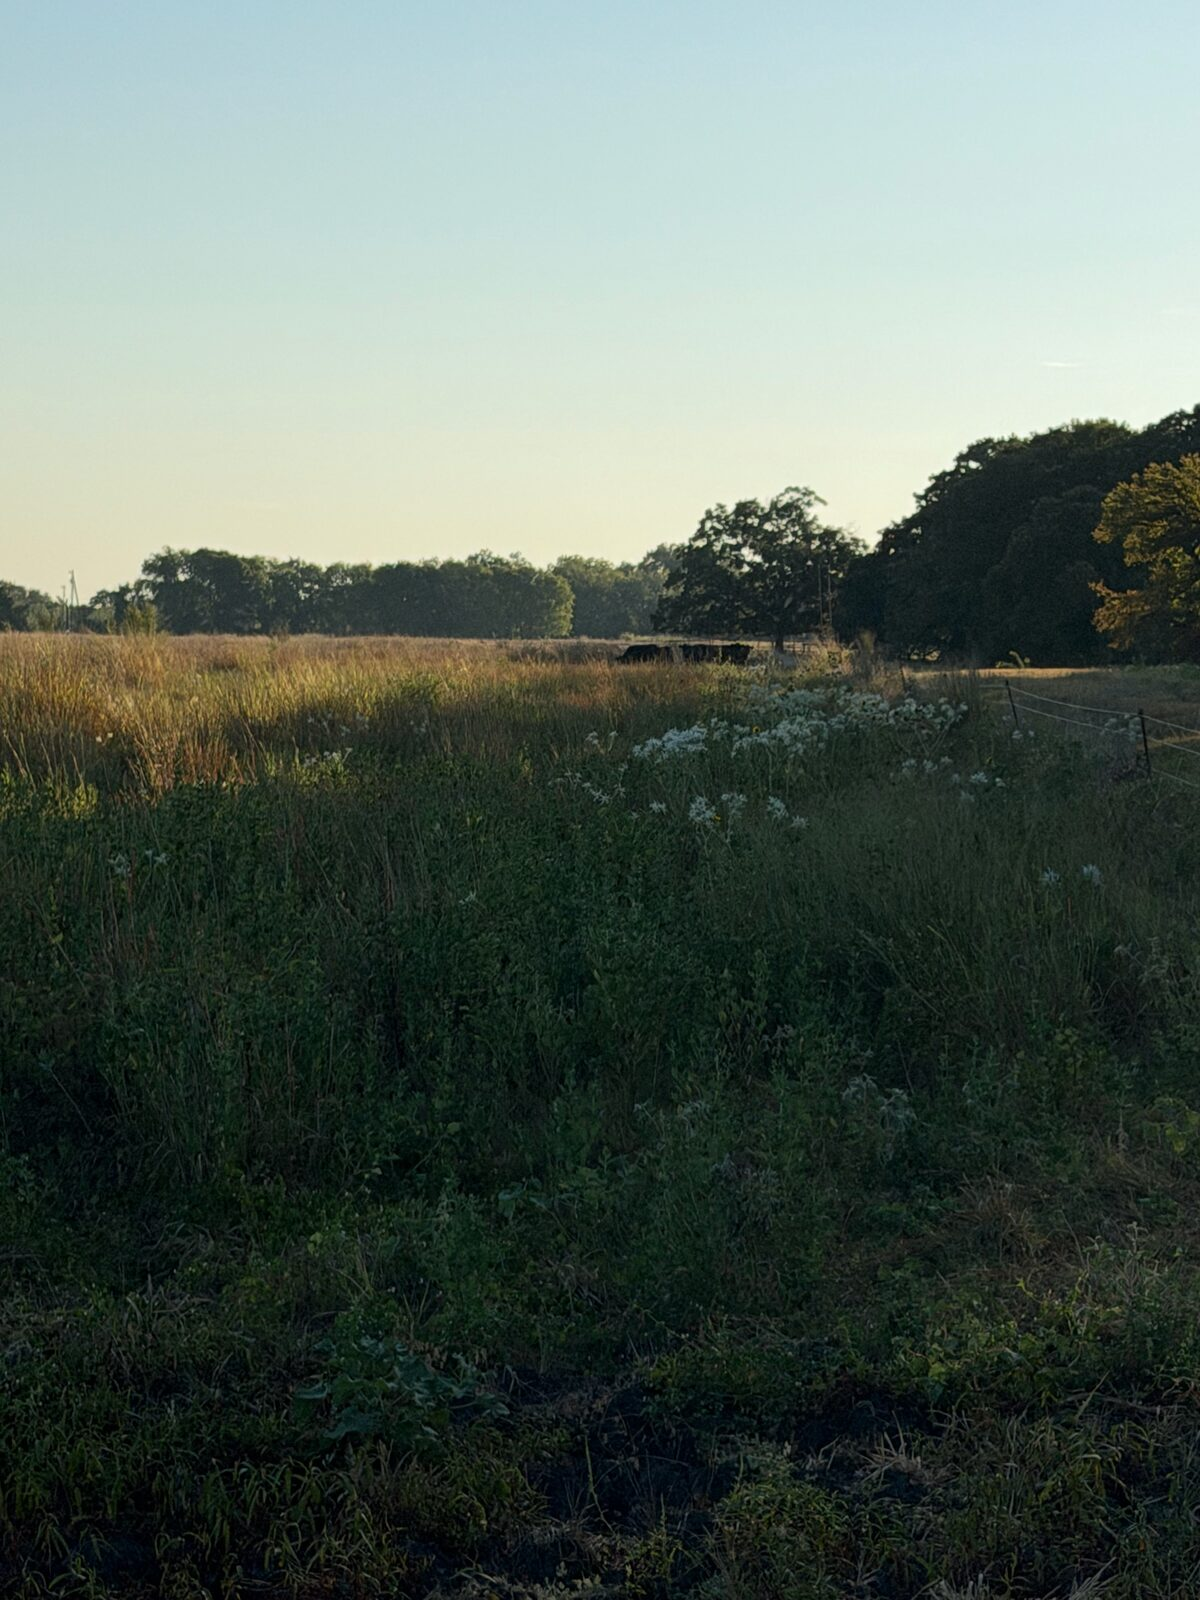
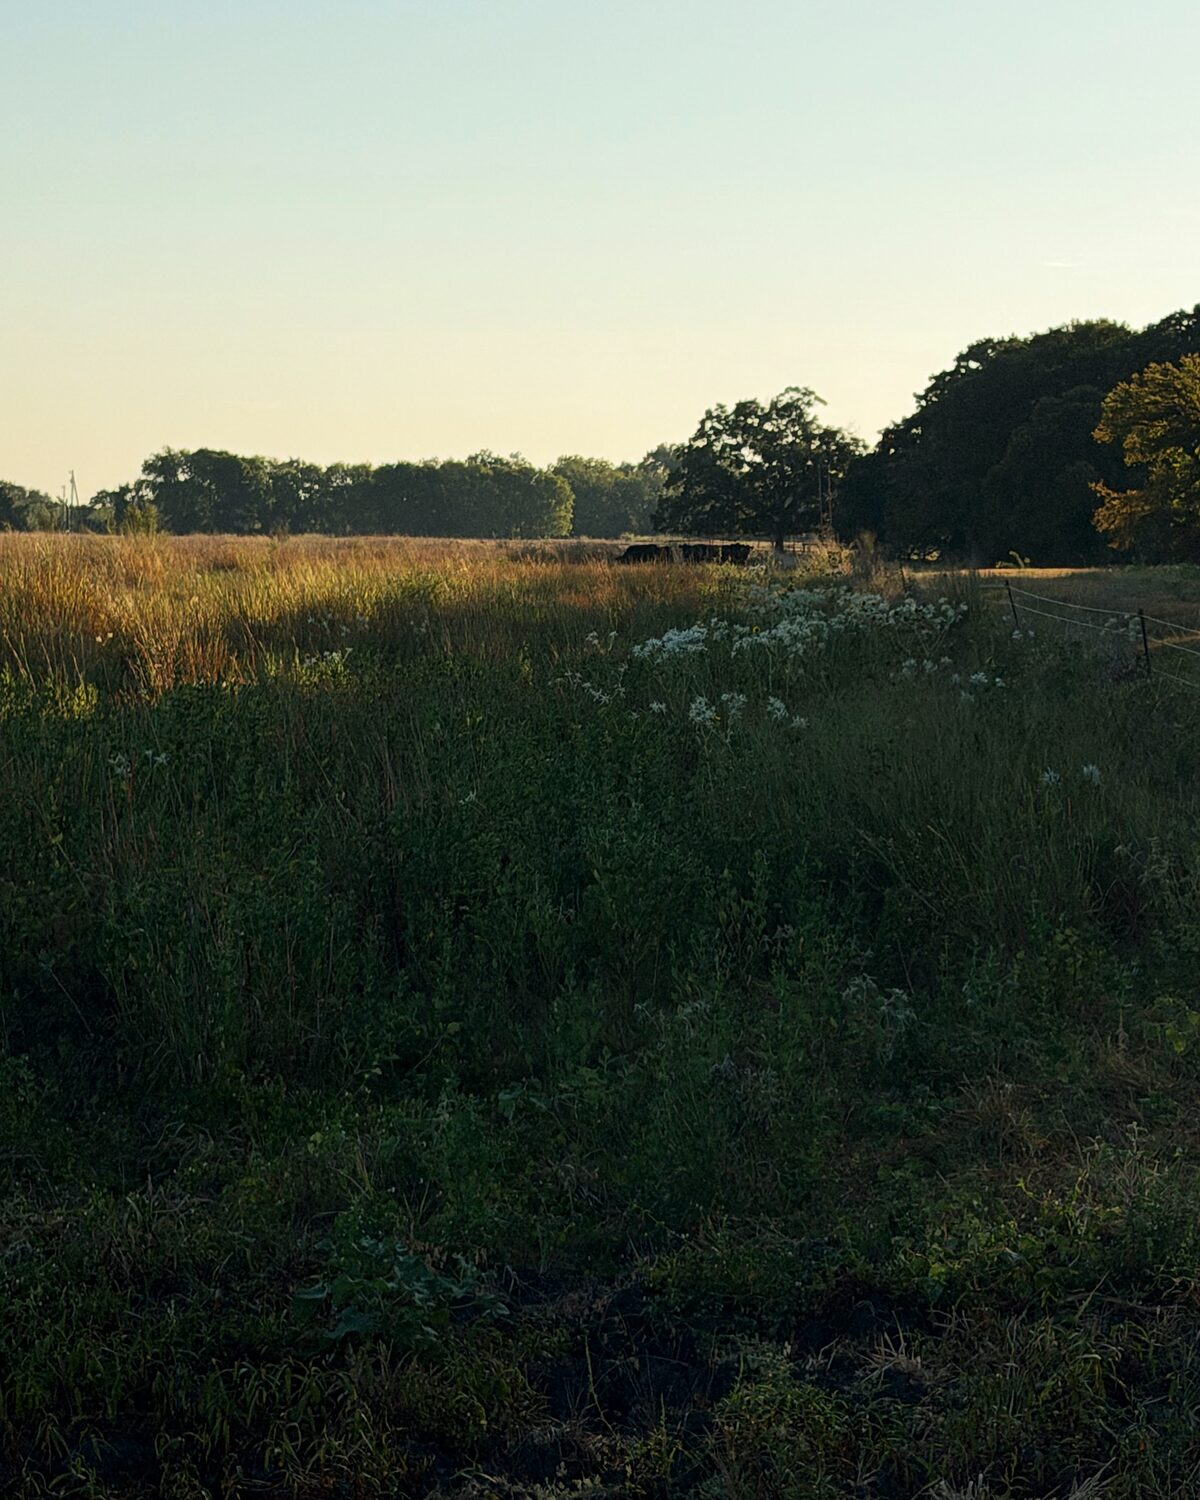
Rosewood photos: editorial crops + consistent warm grade, tighter pavilion crop

diff --git a/news/visit-rosewood-ranches-ennis-texas/index.html b/news/visit-rosewood-ranches-ennis-texas/index.html
@@ -55,7 +55,7 @@
         <div class="container">
             <article class="news-card news-card-full" data-id="visit-rosewood-ranches-ennis-texas">
                 <div class="news-body">
-                    <p>Acre &amp; Plate visited Rosewood Ranches in Ennis, Texas, an American Wagyu operation along the Trinity River. We saw black cattle out on wide, open grassland.</p><figure class="news-image"><img src="/assets/news/rosewood/rosewood-1.jpg" alt="Black cattle grazing on open green pasture under a wide blue sky with scattered clouds" loading="lazy" width="1600" height="1200"><figcaption>Cattle on pasture at Rosewood Ranches</figcaption></figure><p>According to <a href="https://www.rosewoodbeef.com/the-ranch/" rel="noopener">Rosewood</a>, the ranch covers more than 10,000 acres along the Trinity River, and its stewardship goes back to the Sands family in 1857. The ranch says it <a href="https://www.rosewoodbeef.com/" rel="noopener">crosses Wagyu genetics with Black Angus lineage</a>, with cattle raised and finished on pasture.</p><figure class="news-image"><img src="/assets/news/rosewood/rosewood-2.jpg" alt="Late-day sun glowing low over a green pasture with a treeline on the horizon" loading="lazy" width="1200" height="1600"><figcaption>Late sun over the pasture and treeline</figcaption></figure><figure class="news-image"><img src="/assets/news/rosewood/rosewood-3.jpg" alt="Tall grass and wildflowers in the foreground with cattle visible in the distance at dusk" loading="lazy" width="1200" height="1600"><figcaption>Tall grass and wildflowers, cattle in the distance at dusk</figcaption></figure><p>The ranch is owned by a subsidiary of the Dallas-based Rosewood Corporation, which is owned by the Caroline Hunt Trust Estate, according to the <a href="https://www.rosewoodcattle.com/history.htm" rel="noopener">company history</a>.</p><figure class="news-image"><img src="/assets/news/rosewood/rosewood-4.jpg" alt="Ranch pickup trucks and utility vehicles parked under a large covered pavilion" loading="lazy" width="1600" height="1200"><figcaption>Ranch trucks and UTVs under the pavilion</figcaption></figure><figure class="news-image"><img src="/assets/news/rosewood/rosewood-5.jpg" alt="Two men in conversation outdoors at the ranch, one wearing a cowboy hat" loading="lazy" width="1600" height="1200"><figcaption>Talking cattle at the ranch</figcaption></figure><p><strong>Why it isn&rsquo;t in the directory:</strong> Rosewood sells its beef to chefs and through distributors such as <a href="https://www.allenbrothers.com/collections/rosewood-ranches-wagyu" rel="noopener">Allen Brothers</a>, which describes it as pasture-raised with no added hormones. The ranch doesn&rsquo;t offer direct-to-consumer checkout for fresh beef, so it doesn&rsquo;t meet our ranch-direct rule and isn&rsquo;t listed.</p><figure class="news-image"><img src="/assets/news/rosewood/rosewood-6.jpg" alt="Sunset over a pasture with an antique tractor standing in the grass" loading="lazy" width="1600" height="1200"><figcaption>Sunset over the pasture, with an antique tractor</figcaption></figure><p>If you want Texas beef you can buy straight from the ranch, browse the <a href="/texas/">Texas ranches in the directory</a>.</p><p><em>Photos: Andy Halvorsen / Acre &amp; Plate</em></p>
+                    <p>Acre &amp; Plate visited Rosewood Ranches in Ennis, Texas, an American Wagyu operation along the Trinity River. We saw black cattle out on wide, open grassland.</p><figure class="news-image"><img src="/assets/news/rosewood/rosewood-1.jpg" alt="Black cattle grazing on open green pasture under a wide blue sky with scattered clouds" loading="lazy" width="1600" height="1067"><figcaption>Cattle on pasture at Rosewood Ranches</figcaption></figure><p>According to <a href="https://www.rosewoodbeef.com/the-ranch/" rel="noopener">Rosewood</a>, the ranch covers more than 10,000 acres along the Trinity River, and its stewardship goes back to the Sands family in 1857. The ranch says it <a href="https://www.rosewoodbeef.com/" rel="noopener">crosses Wagyu genetics with Black Angus lineage</a>, with cattle raised and finished on pasture.</p><figure class="news-image"><img src="/assets/news/rosewood/rosewood-2.jpg" alt="Late-day sun glowing low over a green pasture with a treeline on the horizon" loading="lazy" width="1200" height="1500"><figcaption>Late sun over the pasture and treeline</figcaption></figure><figure class="news-image"><img src="/assets/news/rosewood/rosewood-3.jpg" alt="Tall grass and wildflowers in the foreground with cattle visible in the distance at dusk" loading="lazy" width="1200" height="1500"><figcaption>Tall grass and wildflowers, cattle in the distance at dusk</figcaption></figure><p>The ranch is owned by a subsidiary of the Dallas-based Rosewood Corporation, which is owned by the Caroline Hunt Trust Estate, according to the <a href="https://www.rosewoodcattle.com/history.htm" rel="noopener">company history</a>.</p><figure class="news-image"><img src="/assets/news/rosewood/rosewood-4.jpg" alt="Ranch pickup trucks and utility vehicles parked under a large covered pavilion" loading="lazy" width="1120" height="530"><figcaption>Ranch trucks and UTVs under the pavilion</figcaption></figure><figure class="news-image"><img src="/assets/news/rosewood/rosewood-5.jpg" alt="Two men in conversation outdoors at the ranch, one wearing a cowboy hat" loading="lazy" width="1500" height="1000"><figcaption>Talking cattle at the ranch</figcaption></figure><p><strong>Why it isn&rsquo;t in the directory:</strong> Rosewood sells its beef to chefs and through distributors such as <a href="https://www.allenbrothers.com/collections/rosewood-ranches-wagyu" rel="noopener">Allen Brothers</a>, which describes it as pasture-raised with no added hormones. The ranch doesn&rsquo;t offer direct-to-consumer checkout for fresh beef, so it doesn&rsquo;t meet our ranch-direct rule and isn&rsquo;t listed.</p><figure class="news-image"><img src="/assets/news/rosewood/rosewood-6.jpg" alt="Sunset over a pasture with an antique tractor standing in the grass" loading="lazy" width="1600" height="1067"><figcaption>Sunset over the pasture, with an antique tractor</figcaption></figure><p>If you want Texas beef you can buy straight from the ranch, browse the <a href="/texas/">Texas ranches in the directory</a>.</p><p><em>Photos: Andy Halvorsen / Acre &amp; Plate</em></p>
                 </div>
                 
                 <div class="news-actions">

diff --git a/news/index.html b/news/index.html
@@ -51,7 +51,7 @@
             <h3><a href="/news/visit-rosewood-ranches-ennis-texas/">Visiting Rosewood Ranches, Texas Wagyu country on the Trinity River</a></h3>
         </div>
         <div class="news-body">
-            <p>Acre &amp; Plate visited Rosewood Ranches in Ennis, Texas, an American Wagyu operation along the Trinity River. We saw black cattle out on wide, open grassland.</p><figure class="news-image"><img src="/assets/news/rosewood/rosewood-1.jpg" alt="Black cattle grazing on open green pasture under a wide blue sky with scattered clouds" loading="lazy" width="1600" height="1200"><figcaption>Cattle on pasture at Rosewood Ranches</figcaption></figure><p>According to <a href="https://www.rosewoodbeef.com/the-ranch/" rel="noopener">Rosewood</a>, the ranch covers more than 10,000 acres along the Trinity River, and its stewardship goes back to the Sands family in 1857. The ranch says it <a href="https://www.rosewoodbeef.com/" rel="noopener">crosses Wagyu genetics with Black Angus lineage</a>, with cattle raised and finished on pasture.</p><figure class="news-image"><img src="/assets/news/rosewood/rosewood-2.jpg" alt="Late-day sun glowing low over a green pasture with a treeline on the horizon" loading="lazy" width="1200" height="1600"><figcaption>Late sun over the pasture and treeline</figcaption></figure><figure class="news-image"><img src="/assets/news/rosewood/rosewood-3.jpg" alt="Tall grass and wildflowers in the foreground with cattle visible in the distance at dusk" loading="lazy" width="1200" height="1600"><figcaption>Tall grass and wildflowers, cattle in the distance at dusk</figcaption></figure><p>The ranch is owned by a subsidiary of the Dallas-based Rosewood Corporation, which is owned by the Caroline Hunt Trust Estate, according to the <a href="https://www.rosewoodcattle.com/history.htm" rel="noopener">company history</a>.</p><figure class="news-image"><img src="/assets/news/rosewood/rosewood-4.jpg" alt="Ranch pickup trucks and utility vehicles parked under a large covered pavilion" loading="lazy" width="1600" height="1200"><figcaption>Ranch trucks and UTVs under the pavilion</figcaption></figure><figure class="news-image"><img src="/assets/news/rosewood/rosewood-5.jpg" alt="Two men in conversation outdoors at the ranch, one wearing a cowboy hat" loading="lazy" width="1600" height="1200"><figcaption>Talking cattle at the ranch</figcaption></figure><p><strong>Why it isn&rsquo;t in the directory:</strong> Rosewood sells its beef to chefs and through distributors such as <a href="https://www.allenbrothers.com/collections/rosewood-ranches-wagyu" rel="noopener">Allen Brothers</a>, which describes it as pasture-raised with no added hormones. The ranch doesn&rsquo;t offer direct-to-consumer checkout for fresh beef, so it doesn&rsquo;t meet our ranch-direct rule and isn&rsquo;t listed.</p><figure class="news-image"><img src="/assets/news/rosewood/rosewood-6.jpg" alt="Sunset over a pasture with an antique tractor standing in the grass" loading="lazy" width="1600" height="1200"><figcaption>Sunset over the pasture, with an antique tractor</figcaption></figure><p>If you want Texas beef you can buy straight from the ranch, browse the <a href="/texas/">Texas ranches in the directory</a>.</p><p><em>Photos: Andy Halvorsen / Acre &amp; Plate</em></p>
+            <p>Acre &amp; Plate visited Rosewood Ranches in Ennis, Texas, an American Wagyu operation along the Trinity River. We saw black cattle out on wide, open grassland.</p><figure class="news-image"><img src="/assets/news/rosewood/rosewood-1.jpg" alt="Black cattle grazing on open green pasture under a wide blue sky with scattered clouds" loading="lazy" width="1600" height="1067"><figcaption>Cattle on pasture at Rosewood Ranches</figcaption></figure><p>According to <a href="https://www.rosewoodbeef.com/the-ranch/" rel="noopener">Rosewood</a>, the ranch covers more than 10,000 acres along the Trinity River, and its stewardship goes back to the Sands family in 1857. The ranch says it <a href="https://www.rosewoodbeef.com/" rel="noopener">crosses Wagyu genetics with Black Angus lineage</a>, with cattle raised and finished on pasture.</p><figure class="news-image"><img src="/assets/news/rosewood/rosewood-2.jpg" alt="Late-day sun glowing low over a green pasture with a treeline on the horizon" loading="lazy" width="1200" height="1500"><figcaption>Late sun over the pasture and treeline</figcaption></figure><figure class="news-image"><img src="/assets/news/rosewood/rosewood-3.jpg" alt="Tall grass and wildflowers in the foreground with cattle visible in the distance at dusk" loading="lazy" width="1200" height="1500"><figcaption>Tall grass and wildflowers, cattle in the distance at dusk</figcaption></figure><p>The ranch is owned by a subsidiary of the Dallas-based Rosewood Corporation, which is owned by the Caroline Hunt Trust Estate, according to the <a href="https://www.rosewoodcattle.com/history.htm" rel="noopener">company history</a>.</p><figure class="news-image"><img src="/assets/news/rosewood/rosewood-4.jpg" alt="Ranch pickup trucks and utility vehicles parked under a large covered pavilion" loading="lazy" width="1120" height="530"><figcaption>Ranch trucks and UTVs under the pavilion</figcaption></figure><figure class="news-image"><img src="/assets/news/rosewood/rosewood-5.jpg" alt="Two men in conversation outdoors at the ranch, one wearing a cowboy hat" loading="lazy" width="1500" height="1000"><figcaption>Talking cattle at the ranch</figcaption></figure><p><strong>Why it isn&rsquo;t in the directory:</strong> Rosewood sells its beef to chefs and through distributors such as <a href="https://www.allenbrothers.com/collections/rosewood-ranches-wagyu" rel="noopener">Allen Brothers</a>, which describes it as pasture-raised with no added hormones. The ranch doesn&rsquo;t offer direct-to-consumer checkout for fresh beef, so it doesn&rsquo;t meet our ranch-direct rule and isn&rsquo;t listed.</p><figure class="news-image"><img src="/assets/news/rosewood/rosewood-6.jpg" alt="Sunset over a pasture with an antique tractor standing in the grass" loading="lazy" width="1600" height="1067"><figcaption>Sunset over the pasture, with an antique tractor</figcaption></figure><p>If you want Texas beef you can buy straight from the ranch, browse the <a href="/texas/">Texas ranches in the directory</a>.</p><p><em>Photos: Andy Halvorsen / Acre &amp; Plate</em></p>
         </div>
         
         <div class="news-meta">
